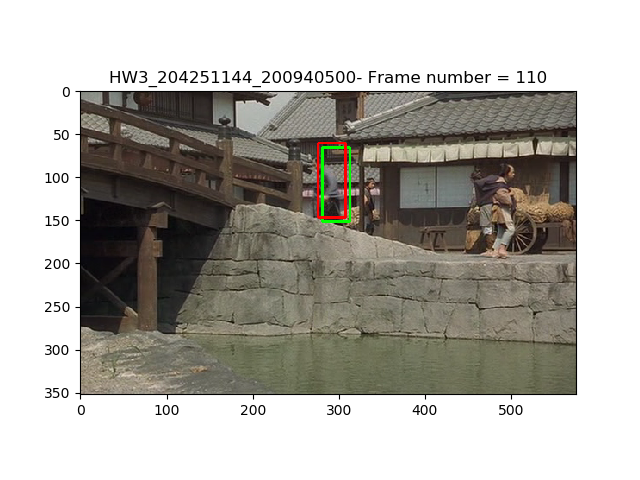
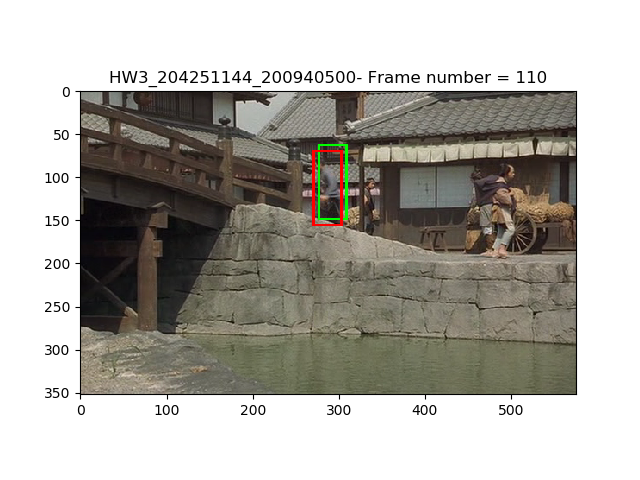
Fix compNormHist and continue of part A

Changed region(s): [[0.4688, 0.2812, 0.5625, 0.4688]]

diff --git a/HW3_functions.py b/HW3_functions.py
@@ -18,7 +18,10 @@ s_initial = [297,    # x center
 def compNormHist(I, S):
     # INPUT  = I (image) AND s (1x6 STATE VECTOR, CAN ALSO BE ONE COLUMN FROM S)
     # OUTPUT = normHist (NORMALIZED HISTOGRAM 16x16x16 SPREAD OUT AS A 4096x1 VECTOR. NORMALIZED = SUM OF TOTAL ELEMENTS IN THE HISTOGRAM = 1)
-    ICopy = I.copy()
+    n_colors = 16
+    RGBvector = np.zeros((n_colors, n_colors, n_colors), dtype = int)
+
+    I_B, I_G, I_R = cv2.split(I)
 
     # keep the patch in the image boundaries
     ylow = np.clip(S[1] - S[3], 0, I.shape[0] - 1)
@@ -26,28 +29,17 @@ def compNormHist(I, S):
     xlow = np.clip(S[0] - S[2], 0, I.shape[1] - 1)
     xhigh = np.clip(S[0] + S[2], 1, I.shape[1])
 
-    patch = ICopy[ylow:yhigh, xlow:xhigh]  # cut the patch from image
-    n_colors = 16
-    RGBvector = [0] * 4096
+    patch_R = (I_R[ylow:yhigh, xlow:xhigh]/n_colors).astype(int)  # cut the patch from image
+    patch_B = (I_B[ylow:yhigh, xlow:xhigh]/n_colors).astype(int)  # cut the patch from image
+    patch_G = (I_G[ylow:yhigh, xlow:xhigh]/n_colors).astype(int)  # cut the patch from image
 
-    # Quantization to 4 bits (0-15) loop runs for R,G,B
-    for i in range(3):
-        # find the range of values at the patch
-        indexRange = (np.max(patch[:, :, i]) - np.min(patch[:, :, i]))
-        if indexRange == 0:  # in case all pixels of same color has same value
-            patch[:, :, i] = 0
-        else:
-            quantUnit = math.ceil(indexRange / n_colors)
-            patch[:, :, i] = (patch[:, :, i] - np.min(patch[:, :, i])) // quantUnit
 
     # Making a 4096 vector for every permutation of RGB values
-    for x in range(patch.shape[1]):  # shape[1] is width
-        for y in range(patch.shape[0]):  # shape[0] is height
-            R = patch[y, x, 0]
-            G = patch[y, x, 1]
-            B = patch[y, x, 2]
-            RGBvector[R + (G * 15) + (B * 15 * 15)] += 1
+    for x in range(patch_R.shape[1]):  # shape[1] is width
+        for y in range(patch_R.shape[0]):  # shape[0] is height
+            RGBvector[patch_R[y, x], patch_G[y, x], patch_B[y, x]] += 1
 
+    RGBvector = np.reshape(RGBvector, (1,4096))
     # Return normalized vector
     if np.sum(RGBvector) == 0:
         return RGBvector
@@ -96,7 +88,7 @@ def sampleParticles(S_prev, C):
     S_next_tag = np.zeros_like(S_prev)
     for n in range(len(C)):
         # r is random number - uniform distribution
-        r = np.random.uniform(0, 0.99)
+        r = np.random.uniform(0, 1)
         minValue = 100
 
         # find the minimal value which is bigger than r

diff --git a/HW3.py b/HW3.py
@@ -118,5 +118,3 @@ for image_name in image_name_list[1:]:
     if 0 == images_processed % 10:
         showParticles(I, S, W, i, ID)
 
-    #if images_processed > 110:
-    #    break
